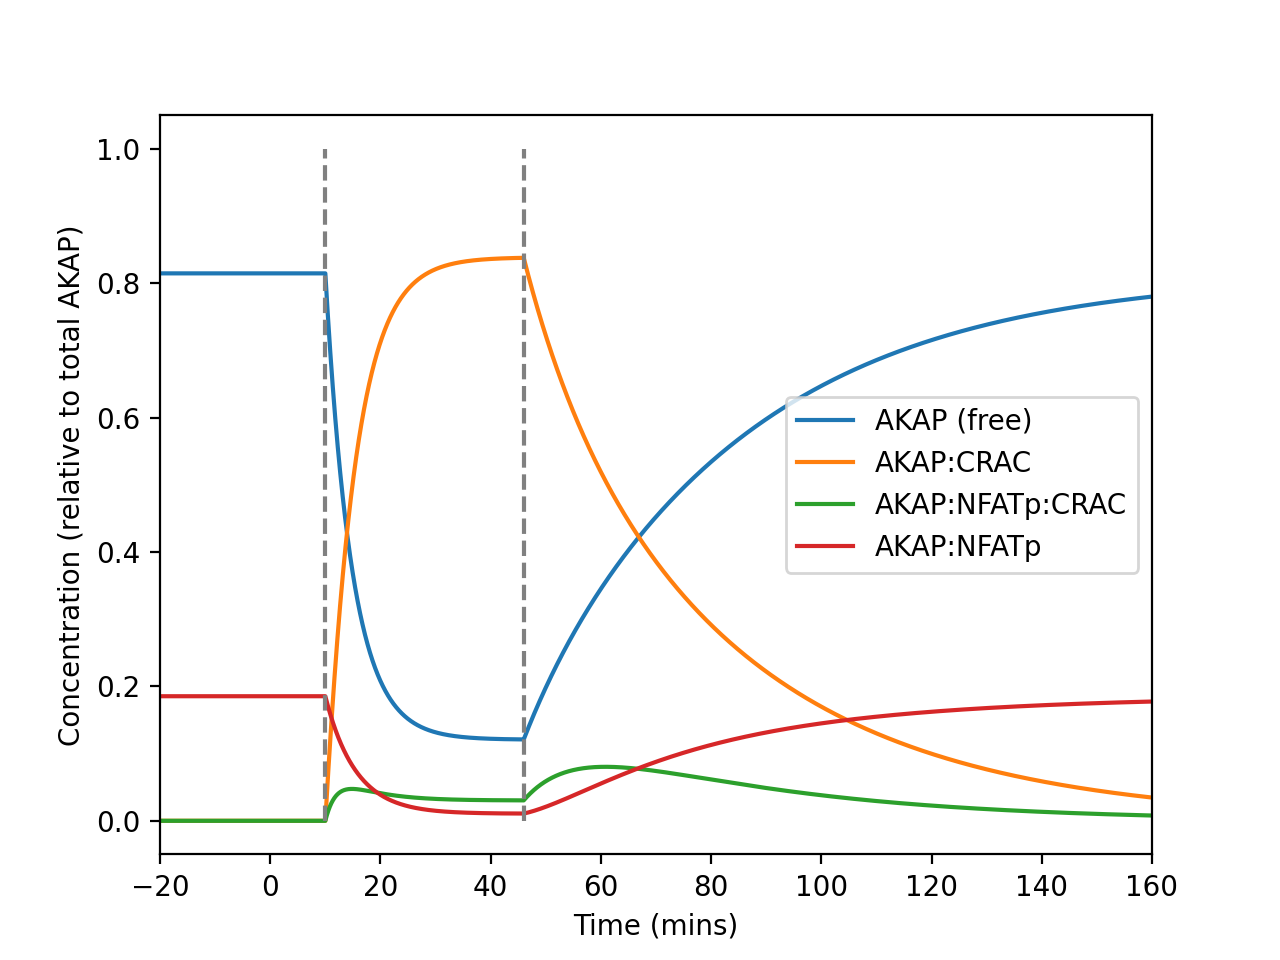
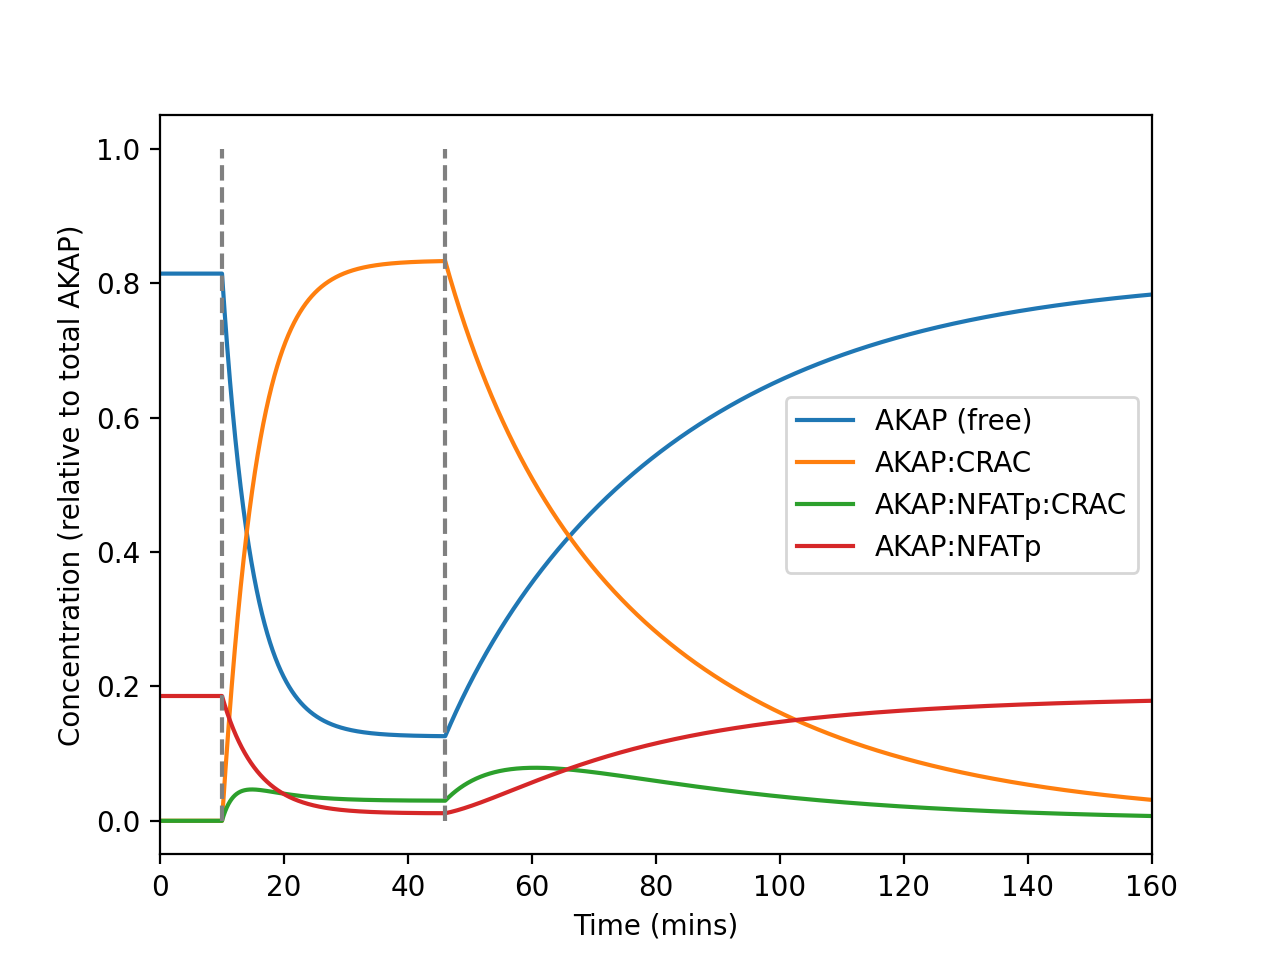
Update xlimits on axes

diff --git a/plot_examples_with_varying_nuclear_export.py b/plot_examples_with_varying_nuclear_export.py
@@ -80,7 +80,7 @@ plt.ylabel('Proportion of AKAP:NFAT co-localised (% of mean value t<0)')
 plt.errorbar(akap_nfatp_times+10, 100*akap_nfatp_means,
              yerr=100*akap_nfatp_sems, capsize=1, lw=1, ls='', marker='x')
 plt.plot(times+10, prop_akap_bound_nfat_no_export)
-plt.xlim([-20, 160])
+plt.xlim([0, 160])
 plt.plot([10, 10], [0, 110], '--', color='grey')
 plt.plot([46, 46], [0, 110], '--', color='grey')
 plt.show()
@@ -123,7 +123,7 @@ plt.plot(times+10, ac)
 plt.plot(times+10, anc)
 plt.plot(times+10, an)
 plt.legend(["AKAP (free)", "AKAP:CRAC", "AKAP:NFATp:CRAC", "AKAP:NFATp"])
-plt.xlim([-20, 160])
+plt.xlim([0, 160])
 plt.plot([10, 10], [0, 1], '--', color='grey')
 plt.plot([46, 46], [0, 1], '--', color='grey')
 plt.show()
@@ -190,7 +190,7 @@ plt.plot(times+10, ac)
 plt.plot(times+10, anc)
 plt.plot(times+10, an)
 plt.legend(["AKAP (free)", "AKAP:CRAC", "AKAP:NFATp:CRAC", "AKAP:NFATp"])
-plt.xlim([-20, 160])
+plt.xlim([0, 160])
 plt.plot([10, 10], [0, 1], '--', color='grey')
 plt.plot([46, 46], [0, 1], '--', color='grey')
 plt.show()
